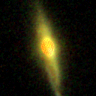
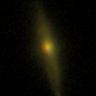
Completed the psf_matching.py file.

Changed region(s): [[0.2812, 0.0, 0.7188, 1.0], [0.5938, 0.2188, 0.625, 0.25], [0.0938, 0.3125, 0.125, 0.3438]]

diff --git a/rgb_filter_images.py b/rgb_filter_images.py
@@ -22,7 +22,7 @@ from astropy.visualization import make_lupton_rgb, make_rgb, LogStretch, SqrtStr
 from match_catalogue import catalogue_matcher
 from filter_cutouts import make_filter_cutouts
 from label_galaxy_morphology import add_morphology_classes
-from psf_matching import match_psfs
+from psf_matching import match_psfs_with_provided_psfs
 import matplotlib.pyplot as plt
 import numpy as np
 import os
@@ -37,9 +37,21 @@ Workflow:
 """
 
 
+
+BASE_PSF_PATH = "/Volumes/Research/emcgrath/CANDELS/psfs/" 
+
+psf_red_path = BASE_PSF_PATH + "gds_60mas_wfc3_hybrid/" + "gs_deep_f160w_v0.5_psf.fits"
+psf_green_path = BASE_PSF_PATH + "gds_60mas_wfc3_hybrid/" + "gs_deep_f125w_v0.5_psf.fits"
+psf_blue_path = BASE_PSF_PATH + "gds_60mas_acs_yicheng/" + "gs_psf_ss_acs_i_bkgsub.fits"
+
+
+
 #  Find the optimal combination of values for stretch and Q to best bring out wanted features for CNN training
 def make_rgb_from_matched_catalog(red_dir, green_dir, blue_dir, output_dir, 
-                                  matched_catalog, stretch=3, Q=10) -> List[str]:
+                                  matched_catalog, stretch=0.5, Q=10,
+                                  psf_red_path=psf_red_path,
+                                  psf_green_path=psf_green_path,
+                                  psf_blue_path=psf_blue_path) -> List[str]:
     """
     Create RGB images from filter cutouts for galaxies in matched catalog.
     
@@ -88,8 +100,8 @@ def make_rgb_from_matched_catalog(red_dir, green_dir, blue_dir, output_dir,
     if id_col is None:
         raise ValueError("Catalog has no ID column!")
     
-    print(f"Processing {len(matched_catalog)} galaxies...")
-    print(f"Using stretch={stretch}, Q={Q}")
+    # print(f"Processing {len(matched_catalog)} galaxies...")
+    # print(f"Using stretch={stretch}, Q={Q}")
     
     rgb_paths = []
     successful = 0
@@ -119,7 +131,15 @@ def make_rgb_from_matched_catalog(red_dir, green_dir, blue_dir, output_dir,
         blue_data = fits.getdata(blue_file)
 
         # Do psf_matching here before moving on with the rest of the image processing.
-        red_data, green_data, blue_data = match_psfs(red_data, green_data, blue_data)
+        try:
+            red_data, green_data, blue_data = match_psfs_with_provided_psfs(
+                red_data, green_data, blue_data,
+                psf_red_path, psf_green_path, psf_blue_path)
+            
+            print("PSF matching is working. Keep at it...")
+        except Exception as e:
+            print(f"PSF matching failed for galaxy {galaxy_id}: {e}")
+            continue
         
         # # Clean the data (remove NaNs, infinities, negative values)
         red_data = np.nan_to_num(red_data, nan=0.0, posinf=0.0, neginf=0.0)
@@ -204,7 +224,7 @@ def make_rgb_from_matched_catalog(red_dir, green_dir, blue_dir, output_dir,
     return rgb_paths
 
 
-def test_small_sample(catalog, sample_size=5):
+def test_small_sample(catalog, sample_size=5) -> List[str]:
     """
     Extract a small sample of galaxies for testing.
     
@@ -228,8 +248,8 @@ def test_small_sample(catalog, sample_size=5):
     else:
         sample_catalog = catalog
     
-    print(f"\n Created test sample with {len(sample_catalog)} galaxies")
-    print("Sample galaxy IDs:", sample_catalog['ID'][:5].tolist())
+    # print(f"\n Created test sample with {len(sample_catalog)} galaxies")
+    # print("Sample galaxy IDs:", sample_catalog['ID'][:5].tolist())
     
     return sample_catalog
 
@@ -290,7 +310,7 @@ if __name__ == "__main__":
     TEST_SAMPLE_SIZE = 6      # Number of galaxies to test with
     
     # Match catalogues and add morphology labels
-    print(" Matching catalogues")
+    print("Matching catalogues")
 
     
     matched_catalog = catalogue_matcher(
@@ -346,7 +366,7 @@ if __name__ == "__main__":
         box_radius=box_radius
     )
     
-    # Make RGB images
+
     print("Making RGB images ")
 
     
@@ -361,11 +381,3 @@ if __name__ == "__main__":
     
 
     print("Workflow is now completed.")
-    
-    # if TEST_MODE:
-    #     print(f"\n Tested with {TEST_SAMPLE_SIZE} galaxies")
-    
-    # print("\n My Next steps:")
-    # print("1. Run the script with TEST_MODE = True first")
-    # print("2. Verify the output PNGs look correct")
-    # print("3. Set TEST_MODE = False for full run")

diff --git a/psf_matching.py b/psf_matching.py
@@ -1,0 +1,110 @@
+"""
+PSF Matching using Professor McGrath's Provided PSF Files. 
+I had to, first, install the photutils package.
+Come back and update the return types of each functions.
+"""
+
+from photutils.psf_matching import make_wiener_kernel, TukeyWindow
+from scipy.signal import fftconvolve # from this site: https://docs.scipy.org/doc/scipy/reference/generated/scipy.signal.fftconvolve.html
+from astropy.io import fits
+import numpy as np
+import os
+from typing import List, Tuple
+
+
+def load_psf_from_file(psf_path) -> List[float]:
+    """
+    Load a PSF from a FITS file and normalize it.
+    
+    Parameters
+    ----------
+    psf_path : str
+        Path to the PSF FITS file
+    
+    Returns
+    -------
+    psf : np.ndarray
+        Normalized PSF array
+    """
+    if not os.path.exists(psf_path):
+        raise FileNotFoundError(f"PSF file not found: {psf_path}")
+    
+    psf_data = fits.getdata(psf_path)
+    
+    # Remove any NaN or inf values
+    psf_data = np.nan_to_num(psf_data, nan=0.0, posinf=0.0, neginf=0.0)
+    
+    # Normalize to sum to 1
+    psf_data = psf_data / np.sum(psf_data)
+    
+    return psf_data
+
+
+def match_psfs_with_provided_psfs(red_data, green_data, blue_data,
+                                  psf_red_path, psf_green_path, psf_blue_path,
+                                  regularization=1e-4,
+                                  window_alpha=0.3) -> Tuple[ List[float], List[float], List[float] ]:
+    """
+    Match PSFs of three filter images using provided PSF FITS files. 
+
+    Parameters
+    ----------
+    red_data : np.ndarray
+        Red channel image data (F160W)
+    green_data : np.ndarray
+        Green channel image data (F125W)
+    blue_data : np.ndarray
+        Blue channel image data (F606W)
+    psf_red_path : str
+        Path to PSF file for red filter (F160W)
+    psf_green_path : str
+        Path to PSF file for green filter (F125W)
+    psf_blue_path : str
+        Path to PSF file for blue filter (F606W)
+    regularization : float, optional
+        Regularization parameter (default 1e-4)
+    window_alpha : float, optional
+        Window alpha parameter (default 0.3)
+    
+    Returns
+    -------
+    tuple : (matched_red, matched_green, matched_blue)
+        PSF-matched images
+    """
+    
+    print("\n Loading PSF files...")
+    
+    # This loads the PSFs
+    psf_red = load_psf_from_file(psf_red_path)
+    psf_green = load_psf_from_file(psf_green_path)
+    psf_blue = load_psf_from_file(psf_blue_path)
+    
+    # print(f"  Red PSF shape: {psf_red.shape}, sum: {psf_red.sum():.3f}")
+    # print(f"  Green PSF shape: {psf_green.shape}, sum: {psf_green.sum():.3f}")
+    # print(f"  Blue PSF shape: {psf_blue.shape}, sum: {psf_blue.sum():.3f}")
+    
+    target_psf = psf_red
+    # Create window
+    window = TukeyWindow(alpha=window_alpha)
+    
+    print("\n Computing matching kernels...")
+    
+    # Match each image to target
+    def match_one(source_psf, image) -> List[str]: # I can delete the field for filter_name; Old version: match_one(source_psf, image, filter_name)
+        # print(f"  Matching {filter_name}...")
+        kernel = make_wiener_kernel(source_psf, target_psf,
+                                   regularization=regularization,
+                                   window=window)
+        # Normalize kernel
+        kernel = kernel / np.sum(kernel)
+        # Apply convolution
+        matched = fftconvolve(image, kernel, mode='same') # With mode="same", returns a matrix of size equal to the size of image, which is what we want.
+        return matched
+    
+    matched_red = red_data # No convolution needed since we're matching the Psf's to the psf_red
+    matched_green = match_one(psf_green, green_data)
+    matched_blue = match_one(psf_blue, blue_data)
+    
+    # print("\n PSF matching complete!")
+    
+    return matched_red, matched_green, matched_blue

diff --git a/filter_cutouts.py b/filter_cutouts.py
@@ -76,7 +76,7 @@ def make_filter_cutouts(catalog, image_path, band, output_dir, box_radius=103.5,
     """
     
     # Create output directory
-    print(f" Making cutouts for band: {band}")
+    # print(f" Making cutouts for band: {band}")
     
     # Create output directory if it doesn't exist
     if os.path.exists(output_dir):
@@ -99,7 +99,7 @@ def make_filter_cutouts(catalog, image_path, band, output_dir, box_radius=103.5,
     if id_col is None:
         raise ValueError("Catalog has no ID column! Found: " + str(catalog.colnames))
     
-    print(f"Using '{id_col}' as galaxy ID column")
+    # print(f"Using '{id_col}' as galaxy ID column")
     
     # Now, extract Coordinates and IDS from catalog 
     # Get RA, Dec, and IDs (handling different column name variations)
@@ -115,12 +115,12 @@ def make_filter_cutouts(catalog, image_path, band, output_dir, box_radius=103.5,
     dec_list = catalog[dec_col]
     id_list = catalog[id_col]
     
-    print(f" Using RA column: '{ra_col}', Dec column: '{dec_col}'")
-    print(f" Processing {len(ra_list)} galaxies...")
+    # print(f" Using RA column: '{ra_col}', Dec column: '{dec_col}'")
+    # print(f" Processing {len(ra_list)} galaxies...")
     
    
     # Open the fits file and extract data
-    print(f"\n Opening FITS image: {image_path}")
+    # print(f"\n Opening FITS image: {image_path}")
     
     with fits.open(image_path) as hdu:
         # Figured the previous code was specific to Candels codes with 
@@ -132,15 +132,15 @@ def make_filter_cutouts(catalog, image_path, band, output_dir, box_radius=103.5,
         if 'SCI' in hdu:
             science_data = hdu['SCI'].data
             image_wcs = WCS(hdu[0].header, hdu)
-            print("Format: CANDELS (SCI extension)")
+            # print("Format: CANDELS (SCI extension)")
         elif 'SCI' in hdu[1].name if len(hdu) > 1 else False:
             science_data = hdu[1].data
             image_wcs = WCS(hdu[1].header)
-            print("Format: JWST (extension 1)")
+            # print("Format: JWST (extension 1)")
         else:
             science_data = hdu[0].data
             image_wcs = WCS(hdu[0].header)
-            print("Format: Primary HDU")
+            # print("Format: Primary HDU")
             
         
         error_data = hdu['ERR'].data if 'ERR' in hdu else np.zeros_like(science_data)
@@ -225,12 +225,12 @@ def make_filter_cutouts(catalog, image_path, band, output_dir, box_radius=103.5,
     
   
 
-    print("\n Some data to keep track of things: ")
-    print(f" Band: {band}")
-    print(f" Total galaxies in catalog: {len(ra_list)} == {len(dec_list)} == {len(id_list)}")
-    print(f" Successful cutouts: {successful_cutouts}")
-    print(f" Skipped (outside image): {skipped_outside}")
-    print(f" Output directory: {output_dir}")
+    # print("\n Some data to keep track of things: ")
+    # print(f" Band: {band}")
+    # print(f" Total galaxies in catalog: {len(ra_list)} == {len(dec_list)} == {len(id_list)}")
+    # print(f" Successful cutouts: {successful_cutouts}")
+    # print(f" Skipped (outside image): {skipped_outside}")
+    # print(f" Output directory: {output_dir}")
     
     return output_files, successful_cutouts
 
@@ -293,5 +293,5 @@ if __name__ == "__main__":
     #     box_radius=300
     # )
     
-    print("\n All cutouts complete!")
+    # print("\n All cutouts complete!")
     # I'll need to transfer the running of this file over to a google colab script

diff --git a/match_catalogue.py b/match_catalogue.py
@@ -65,14 +65,14 @@ def catalogue_matcher(main_catalog_path, ref_catalog_path, field_filter='GDS',
     """
     
     # First we load the galaxy catalogue in
-    print(f" \n Loading main catalog from: {main_catalog_path}")
+    # print(f" \n Loading main catalog from: {main_catalog_path}")
     main_catalog = Table.read(main_catalog_path)
-    print(f" Main catalog has {len(main_catalog)} galaxies") # Next we check the number of galaxies involved
+    # print(f" Main catalog has {len(main_catalog)} galaxies") # Next we check the number of galaxies involved
     
     # We perform a similar task for the reference catalogue
-    print(f"\n Loading reference catalog from: {ref_catalog_path}")
+    # print(f"\n Loading reference catalog from: {ref_catalog_path}")
     ref_catalog = Table.read(ref_catalog_path)
-    print(f" Reference catalog has {len(ref_catalog)} galaxies")
+    # print(f" Reference catalog has {len(ref_catalog)} galaxies")
 
     # print(f"\n { True if 't00_smooth_or_featured_a0_smooth_weighted_frac' in ref_catalog.colnames else False }, 't00_smooth_or_featured_a0_smooth_weighted_frac' is in reference catalog \n")
     # The commented-out code above confirms that the required classification features are present and so can be extracted
@@ -80,8 +80,8 @@ def catalogue_matcher(main_catalog_path, ref_catalog_path, field_filter='GDS',
 
     # Filter reference catalog to specific field if requested
     if field_filter:
-        print("\n Field specific filtering by UDS is needed.")
-        print(f"\n Filtering reference catalog to field: {field_filter}")
+        # print(f"\n Field specific filtering by {field_filter} is needed.")
+        # print(f"\n Filtering reference catalog to field: {field_filter}")
         filtered_ref = ref_catalog[[str(id).startswith(field_filter) for id in ref_catalog['ID']]]
         print(f" Found {len(filtered_ref)} galaxies in {field_filter} field")
     else:
@@ -138,7 +138,7 @@ def catalogue_matcher(main_catalog_path, ref_catalog_path, field_filter='GDS',
 
 
     # Create the matched catalog with morphology labels
-    print("\n Creating matched catalog...")
+    # print("\n Creating matched catalog...")
     # Add morphology labels from reference catalog
     # Note: This adds the raw vote fractions - this needs to be converted to classes separately
     if 't00_smooth_or_featured_a0_smooth_weighted_frac' in matched_ref.colnames:
@@ -186,7 +186,7 @@ def catalogue_matcher(main_catalog_path, ref_catalog_path, field_filter='GDS',
     matched_catalog['match_separation_arcsec'] = d2d[good_matches].arcsec
     
     print(f"\n MATCHING COMPLETE")
-    print(f"\n Final matched catalog size: {len(matched_catalog)} galaxies")
+    # print(f"\n Final matched catalog size: {len(matched_catalog)} galaxies")
     # print(f" - Each galaxy has RA/Dec from main catalog")
     # print(f" - Galaxy Zoo vote fractions added as columns")
     print(f" - Match separation: min={np.min(matched_catalog['match_separation_arcsec']):.2f} arcsec, "
